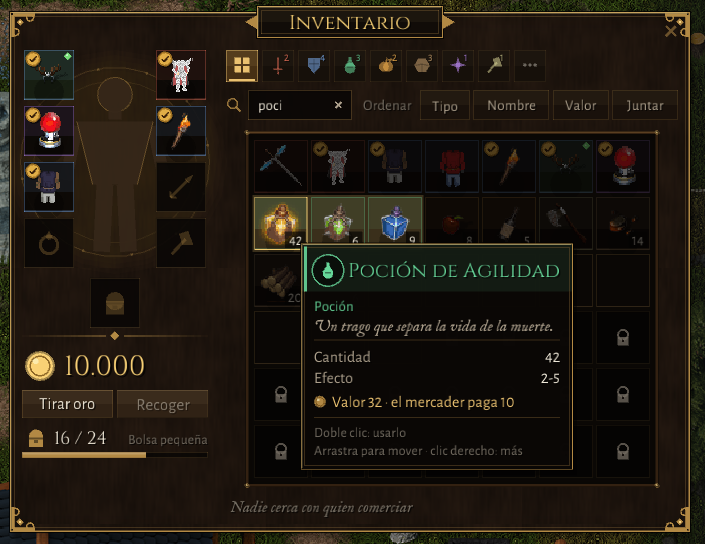
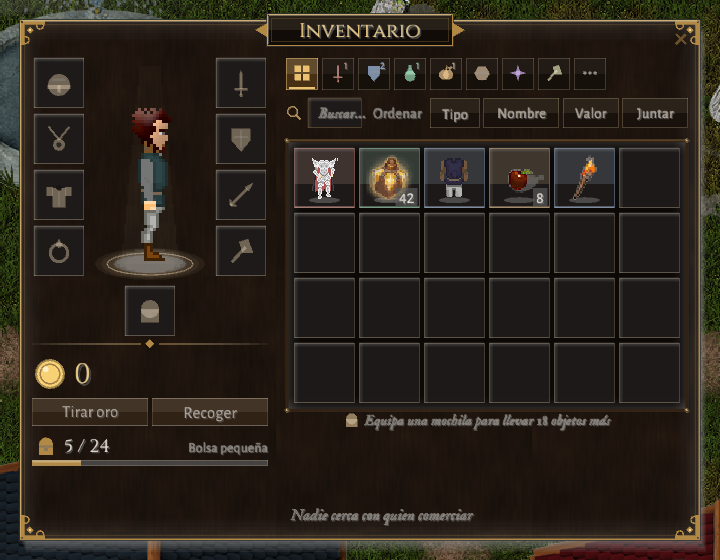
Inventario: tu personaje real (cuerpo, cabeza y equipo) en un pedestal en vez del maniqui; solo casillas usables; retrato del HUD centrado en la cabeza

diff --git a/crates/client/src/ui/inventory.rs b/crates/client/src/ui/inventory.rs
@@ -426,7 +426,8 @@ pub(crate) fn draw_cell(assets: &mut Assets, r: Rect, it: Option<ItemSlot>, o: &
         let pad = r.w * 0.10;
         let lift = h * 1.5 * u - if o.hover && lmb_down() { 2.0 * u } else { 0.0 };
         let ir = Rect::new(r.x + pad - lift, r.y + pad - lift, r.w - 2.0 * pad + 2.0 * lift, r.h - 2.0 * pad + 2.0 * lift);
-        draw_circle(r.x + r.w / 2.0, r.bottom() - r.h * 0.16, r.w * 0.30, Color::new(0.0, 0.0, 0.0, 0.28));
+        // Contact shadow: a thin flattened ellipse under the icon, not a disc.
+        draw_ellipse(r.x + r.w / 2.0, r.bottom() - r.h * 0.13, r.w * 0.26, r.h * 0.05, 0.0, Color::new(0.0, 0.0, 0.0, 0.35));
         assets.draw_obj(i.obj, ir);
     }
     // Border: the kind's colour (or gold when selected / hovered / receiving a drop).
@@ -1581,33 +1582,61 @@ const DOLL: [(EquipSlot, usize, usize); 8] = [
 ];
 
 /// The silhouette of a character behind the doll slots: a rune circle, a body in the dark.
-fn draw_figure(c: Vec2, h: f32, u: f32) {
+/// The player's own character (real body, head and worn equipment, the same composition as
+/// in the world) standing on a lit pedestal in `area`, turning slowly through its four
+/// headings. Drawn through a camera so the 32 px sprites scale up crisply.
+fn draw_figure(game: &Game, assets: &mut Assets, area: Rect, u: f32) {
     let t = get_time() as f32;
-    for i in 0..5 {
-        draw_circle(c.x, c.y, h * 0.5 - i as f32 * 5.0 * u, Color::new(0.45, 0.30, 0.12, 0.035));
+    let foot = vec2(area.x + area.w / 2.0, area.bottom() - 18.0 * u);
+    // Pedestal: warm light from above and a soft pool on the floor.
+    for i in 0..6 {
+        let k = i as f32 / 6.0;
+        draw_ellipse(foot.x, foot.y, area.w * (0.46 - k * 0.3), 16.0 * u * (1.0 - k * 0.5), 0.0, Color::new(0.95, 0.70, 0.35, 0.035));
     }
-    draw_circle_lines(c.x, c.y, h * 0.42, 1.0, alpha(GOLD, 0.22));
-    draw_circle_lines(c.x, c.y, h * 0.36, 1.0, alpha(GOLD, 0.12));
-    for k in 0..12 {
-        let a = k as f32 * std::f32::consts::TAU / 12.0 + t * 0.04;
-        let p = c + vec2(a.cos(), a.sin()) * h * 0.42;
-        draw_circle(p.x, p.y, 1.4 * u, alpha(GOLD, 0.35));
+    let beam_top = area.y + 8.0 * u;
+    for i in 0..10 {
+        let k = i as f32 / 10.0;
+        let w = area.w * (0.18 + 0.32 * k);
+        draw_rectangle(foot.x - w / 2.0, beam_top + (foot.y - beam_top) * k, w, (foot.y - beam_top) / 10.0, Color::new(1.0, 0.82, 0.5, 0.012 + 0.012 * k));
     }
-    let body = Color::new(0.21, 0.15, 0.095, 0.96);
-    let edge = alpha(GOLD, 0.42);
-    let head = vec2(c.x, c.y - h * 0.30);
-    draw_circle(head.x, head.y, h * 0.075, body);
-    draw_circle_lines(head.x, head.y, h * 0.075, 1.0, edge);
-    draw_rectangle(c.x - h * 0.03, head.y + h * 0.06, h * 0.06, h * 0.05, body);
-    // Shoulders, torso, arms, legs.
-    draw_triangle(vec2(c.x - h * 0.17, c.y - h * 0.18), vec2(c.x + h * 0.17, c.y - h * 0.18), vec2(c.x - h * 0.10, c.y + h * 0.10), body);
-    draw_triangle(vec2(c.x + h * 0.17, c.y - h * 0.18), vec2(c.x + h * 0.10, c.y + h * 0.10), vec2(c.x - h * 0.10, c.y + h * 0.10), body);
-    draw_line(c.x - h * 0.17, c.y - h * 0.16, c.x - h * 0.22, c.y + h * 0.08, h * 0.055, body);
-    draw_line(c.x + h * 0.17, c.y - h * 0.16, c.x + h * 0.22, c.y + h * 0.08, h * 0.055, body);
-    draw_line(c.x - h * 0.045, c.y + h * 0.10, c.x - h * 0.06, c.y + h * 0.40, h * 0.075, body);
-    draw_line(c.x + h * 0.045, c.y + h * 0.10, c.x + h * 0.06, c.y + h * 0.40, h * 0.075, body);
-    draw_line(c.x - h * 0.17, c.y - h * 0.18, c.x - h * 0.10, c.y + h * 0.10, 1.0, edge);
-    draw_line(c.x + h * 0.17, c.y - h * 0.18, c.x + h * 0.10, c.y + h * 0.10, 1.0, edge);
+    draw_ellipse(foot.x, foot.y, area.w * 0.30, 9.0 * u, 0.0, Color::new(0.0, 0.0, 0.0, 0.45));
+    draw_ellipse_lines(foot.x, foot.y, area.w * 0.36, 11.0 * u, 0.0, 1.2 * u, alpha(GOLD, 0.35));
+
+    let Some(me) = game.me() else { return };
+    let mut e = me.clone();
+    // South, West, North, East: a slow turn, holding each side 2 s.
+    e.dir = [ao_rules::Dir::Down, ao_rules::Dir::Left, ao_rules::Dir::Up, ao_rules::Dir::Right][((t / 2.0) as usize) % 4];
+    // The character is drawn at 1:1 into a small off-screen target (the same technique as
+    // the world renderer), then that texture is scaled up with whole pixels onto the stand.
+    // Room for a character with a tall helmet and a wide weapon, little else.
+    const RT_W: f32 = 72.0;
+    const RT_H: f32 = 66.0;
+    thread_local! {
+        static RT: std::cell::RefCell<Option<RenderTarget>> = const { std::cell::RefCell::new(None) };
+    }
+    let rt = RT.with(|c| {
+        c.borrow_mut()
+            .get_or_insert_with(|| {
+                let rt = render_target(RT_W as u32, RT_H as u32);
+                rt.texture.set_filter(FilterMode::Nearest);
+                rt
+            })
+            .clone()
+    });
+    // In the target, the character's tile sits so its feet land at (RT_W/2, RT_H - 8).
+    let tl = e.tile_tl();
+    let tile_at = vec2(RT_W / 2.0 - 16.0, RT_H - 8.0 - 30.0);
+    let origin = vec2(tl.x, tl.y) - tile_at;
+    set_camera(&Camera2D { zoom: vec2(2.0 / RT_W, 2.0 / RT_H), target: vec2(RT_W / 2.0, RT_H / 2.0), render_target: Some(rt.clone()), ..Default::default() });
+    clear_background(Color::new(0.0, 0.0, 0.0, 0.0));
+    crate::render::characters::draw_character(assets, &e, origin, t * 1000.0);
+    set_default_camera();
+    // Whole-pixel scale that fits the area; feet on the stand, a slow breath.
+    let scale = ((area.h - 24.0 * u) / RT_H).floor().max(1.0);
+    let (w, h) = (RT_W * scale, RT_H * scale);
+    let breath = ((t * 1.6).sin() * 0.5 + 0.5) * scale * 0.5;
+    let dest = vec2((foot.x - w / 2.0).round(), (foot.y + 8.0 * scale - h - breath).round());
+    draw_texture_ex(&rt.texture, dest.x, dest.y, WHITE, DrawTextureParams { dest_size: Some(vec2(w, h)), ..Default::default() });
 }
 
 /// Draws the content of the window inside `r` (the frame is already drawn).
@@ -1623,7 +1652,7 @@ pub fn draw(ui: &mut Ui, game: &mut Game, assets: &mut Assets, r: Rect) {
     let bp = has_backpack(game, assets);
     let usable = usable_slots(bp);
     let inv = game.local.inventory.clone();
-    let left_w = 186.0 * u;
+    let left_w = 236.0 * u;
     let rx = r.x + left_w + 18.0 * u;
     let rw = r.right() - rx;
 
@@ -1632,7 +1661,9 @@ pub fn draw(ui: &mut Ui, game: &mut Game, assets: &mut Assets, r: Rect) {
     let rowh = 56.0 * u;
     let doll = Rect::new(r.x, r.y, left_w, 4.0 * rowh + cell + 4.0 * u);
     zones.push((Zone::Doll, doll));
-    draw_figure(vec2(r.x + left_w / 2.0, r.y + 2.0 * rowh), 4.0 * rowh, u);
+    // Your character, between the two columns of equipment slots.
+    let fig = Rect::new(r.x + cell + 8.0 * u, r.y, left_w - 2.0 * cell - 16.0 * u, 4.0 * rowh);
+    draw_figure(game, assets, fig, u);
     let mut worn: HashMap<EquipSlot, (u8, ItemSlot)> = HashMap::new();
     for (i, it) in inv.iter().enumerate() {
         let Some(it) = it.filter(|i| i.equipped) else { continue };
@@ -1810,13 +1841,22 @@ pub fn draw(ui: &mut Ui, game: &mut Game, assets: &mut Assets, r: Rect) {
     }
     // The grid.
     let gtop = ry + rowh2 + 14.0 * u;
-    let avail_h = r.bottom() - 34.0 * u - gtop - 12.0 * u;
-    let grid = Grid::fit(7, 6, rw - 12.0 * u, avail_h, 4.0 * u, 56.0 * u);
+    let avail_h = r.bottom() - 34.0 * u - gtop - 12.0 * u - if bp { 0.0 } else { 22.0 * u };
+    // Only the usable slots: 6 per row (24 = 4 rows with the small bag, 42 = 7 with a
+    // backpack). The locked ones are a single hint line, not a wall of padlocks.
+    let grid = Grid::fit(6, usable.div_ceil(6), rw - 12.0 * u, avail_h, 5.0 * u, 60.0 * u);
     let go = vec2(rx + 6.0 * u + (rw - 12.0 * u - grid.size().x) / 2.0, gtop + 6.0 * u);
     let query = q.to_lowercase();
     let view = GridView { slots: &inv, from: WindowId::Inventory, selected: selected_inv(), locked_from: usable, filter, query: &query, sale_badges: false };
     let (hit, z) = draw_grid(ui, assets, &grid, go, &view, act);
     zones.extend(z);
+    if !bp {
+        let hint = "Equipa una mochila para llevar 18 objetos más";
+        let y = go.y + grid.size().y + 22.0 * u;
+        let hw = widgets::measure_with(FontKind::NarrativeItalic, hint, 15.0 * u).width;
+        glyph(Glyph::Pack, vec2(rx + (rw - hw) / 2.0 - 12.0 * u, y - 5.0 * u), 8.0 * u, alpha(GOLD, 0.55));
+        widgets::text_with(FontKind::NarrativeItalic, hint, rx + (rw - hw) / 2.0, y, 15.0 * u, TEXT_FAINT);
+    }
     if let (Some(h), None) = (hit, &ui.drag) {
         let eq = game.local.slot(h.slot).is_some_and(|i| i.equipped);
         let mut hints = Vec::new();

diff --git a/crates/client/src/ui/hud.rs b/crates/client/src/ui/hud.rs
@@ -1002,19 +1002,32 @@ fn portrait_sprite(assets: &mut Assets, game: &Game, c: Vec2, r: f32, u: f32) {
     let Some(me) = game.me() else { return };
     let Some(body) = assets.db.bodies.get(&me.body).cloned() else { return };
     let heading = 3; // south
-    let scale = 1.9 * u;
-    // Clip to the inscribed square (crop the source), feet slightly below the centre.
-    let clip = Rect::new(c.x - r * 0.72, c.y - r * 0.8, r * 1.44, r * 1.5);
-    let origin = vec2(c.x - 16.0 * scale, c.y + r * 0.95 - 33.0 * scale);
+    let scale = 2.1 * u;
+    // A bust: the head centred a little above the middle, shoulders below, cropped to the
+    // square inscribed in the medallion.
+    let clip = Rect::new(c.x - r * 0.72, c.y - r * 0.72, r * 1.44, r * 1.44);
     let mut parts: Vec<(u32, f32, f32)> = vec![(body.walk[heading], body.body_offset.0, body.body_offset.1)];
-    if let Some(h) = assets.db.heads.get(&me.head).map(|h| h[heading]).filter(|h| *h > 0) {
+    let head = assets.db.heads.get(&me.head).map(|h| h[heading]).filter(|h| *h > 0);
+    if let Some(h) = head {
         parts.push((h, body.body_offset.0 + body.head_offset.0, body.body_offset.1 + body.head_offset.1 - 1.0));
     }
-    for (idx, ox, oy) in parts {
-        let Some(g) = assets.db.frame(idx, 0.0).cloned() else { continue };
-        let (px, py) = anchor(&g, ox, oy, true);
+    // Where each part lands relative to a zero origin, to centre on the head.
+    let rel: Vec<Option<(Rect, ao_formats::graphics::Grh)>> = parts
+        .iter()
+        .map(|&(idx, ox, oy)| {
+            let g = assets.db.frame(idx, 0.0).cloned()?;
+            let (px, py) = anchor(&g, ox, oy, true);
+            Some((Rect::new(px * scale, py * scale, g.w * scale, g.h * scale), g))
+        })
+        .collect();
+    let focus = match (head, rel.last().cloned().flatten()) {
+        (Some(_), Some((hr, _))) => vec2(hr.x + hr.w / 2.0, hr.y + hr.h * 0.55),
+        _ => rel.first().cloned().flatten().map_or(Vec2::ZERO, |(br, _)| vec2(br.x + br.w / 2.0, br.y + br.h * 0.3)),
+    };
+    let origin = vec2(c.x, c.y - r * 0.12) - focus;
+    for (dest0, g) in rel.into_iter().flatten() {
         let Some(tex) = assets.texture(g.file) else { continue };
-        let dest = Rect::new(origin.x + px * scale, origin.y + py * scale, g.w * scale, g.h * scale);
+        let dest = Rect::new(origin.x + dest0.x, origin.y + dest0.y, dest0.w, dest0.h);
         let (cx0, cy0, cx1, cy1) = (dest.x.max(clip.x), dest.y.max(clip.y), dest.right().min(clip.right()), dest.bottom().min(clip.bottom()));
         if cx1 <= cx0 || cy1 <= cy0 {
             continue;

diff --git a/crates/client/src/ui/bank.rs b/crates/client/src/ui/bank.rs
@@ -14,7 +14,6 @@ use crate::ui::{Ui, WindowId};
 use client_core::p3::items::usable_slots;
 use macroquad::prelude::*;
 
-pub(crate) use super::inventory::item_name;
 
 /// One gold figure: coin, big number, caption.
 fn gold_block(x: f32, y: f32, amount: u32, caption: &str, right: bool, u: f32) -> f32 {

diff --git a/crates/client-core/src/state.rs b/crates/client-core/src/state.rs
@@ -12,6 +12,7 @@ use std::path::PathBuf;
 
 pub const TILE: f32 = 32.0;
 
+#[derive(Clone, Debug)]
 pub struct Ent {
     pub name: String,
     pub kind: EntityKind,
